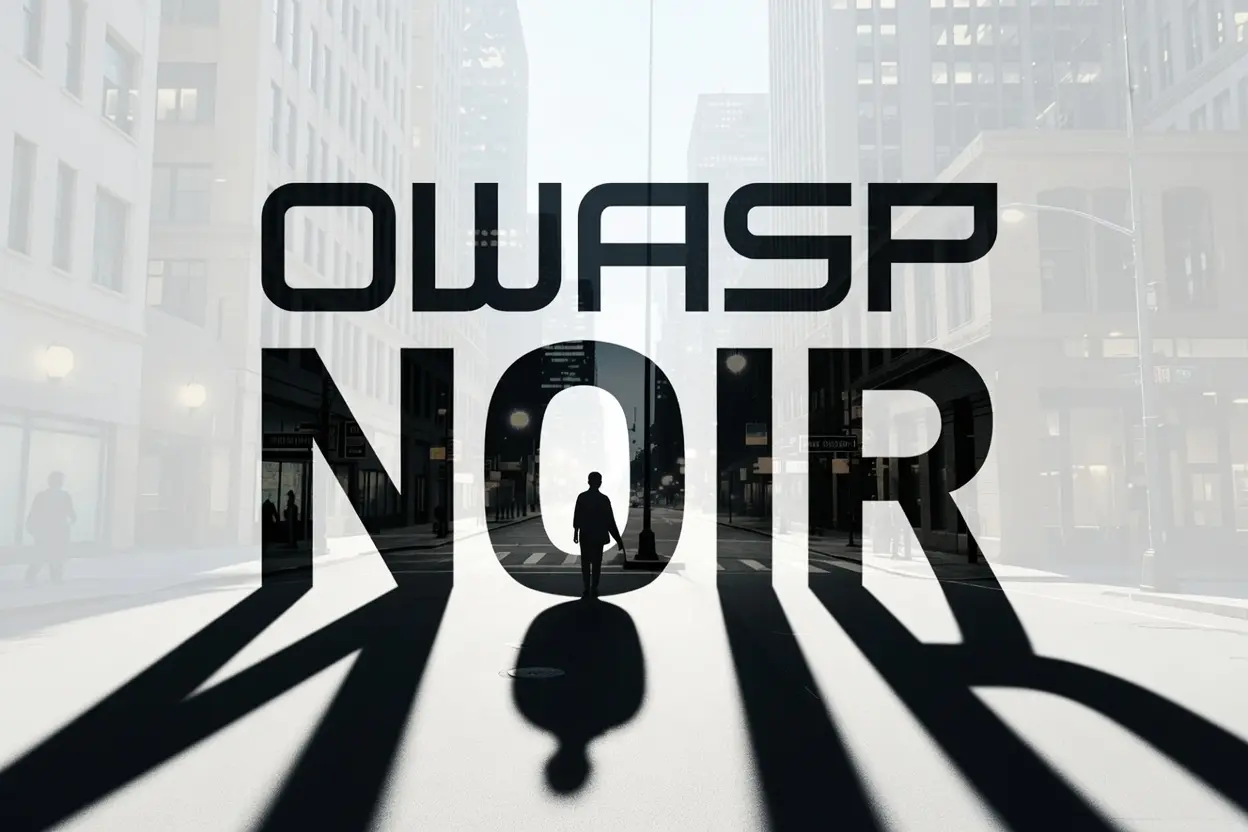
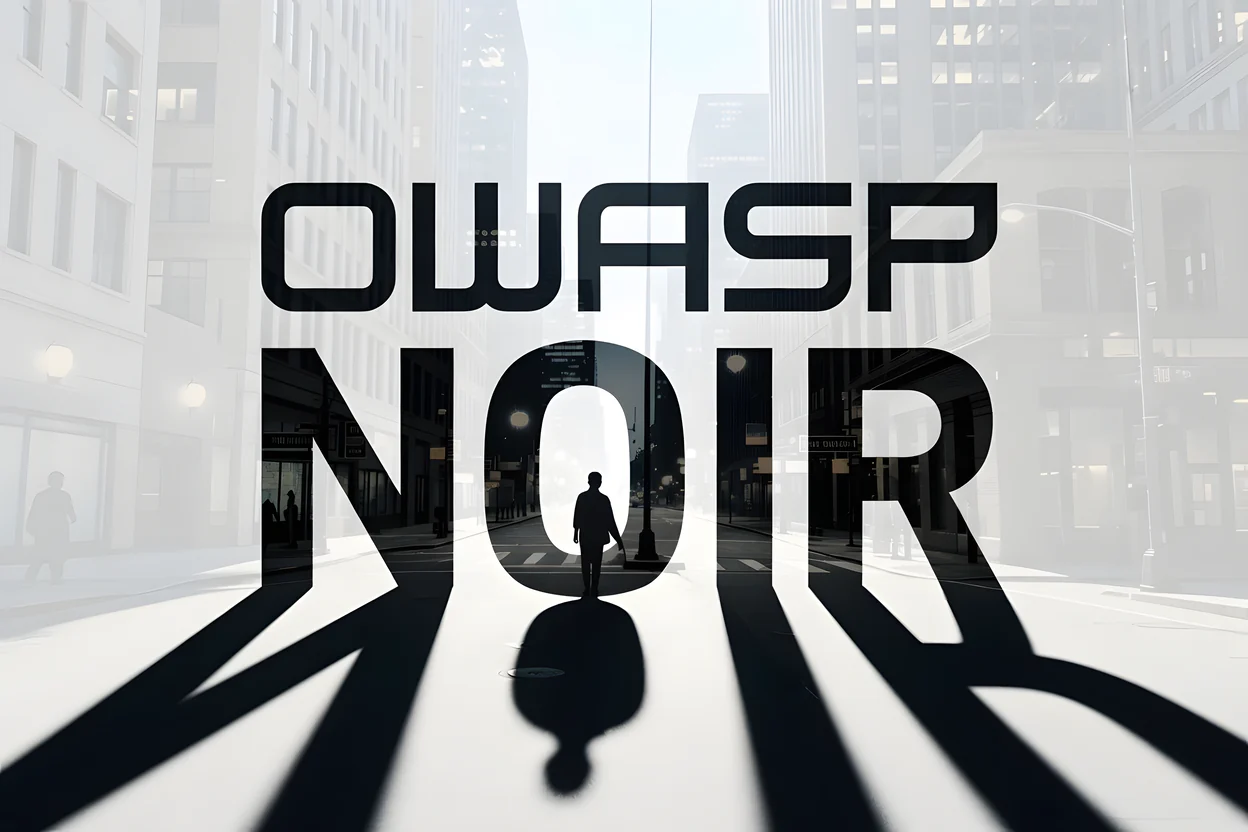
docs: serve high-resolution landing hero plates (#2781)
The hero plates were 1168x784 (night) and 1248x832 (fog) but cover the
full viewport, so a 1440px retina screen stretched them ~2.5x and 4K
more than 3x. No larger original of this artwork exists in history, so
both plates were upscaled 4x with Real-ESRGAN (realesrgan-x4plus) from
the q95 JPEG sources and re-encoded at 1x/2x/3x of their native size,
keeping the aspect ratio the mobile band relies on.

The <source> elements now carry a width-descriptor srcset with
sizes=100vw, and the JPEG fallback (also the OG default_image) moves to
the 2x size.

Changed region(s): [[0.7188, 0.75, 0.7812, 0.7812]]

diff --git a/docs/content/_index.ko.md b/docs/content/_index.ko.md
@@ -15,13 +15,15 @@ template = "landing"
   <div class="hero-sentinel" aria-hidden="true"></div>
   <div class="hero-media">
     <picture class="hero-plate hero-plate-dark">
-      <source srcset="../images/noir-wallpaper.webp" type="image/webp">
+      <source type="image/webp" sizes="100vw"
+              srcset="../images/noir-wallpaper.webp 1168w, ../images/noir-wallpaper-2x.webp 2336w, ../images/noir-wallpaper-3x.webp 3504w">
       <img class="hero-art" src="../images/noir-wallpaper.jpg"
            alt="흑백으로 촬영한 인적 없는 밤거리 위에 OWASP Noir 워드마크가 빛으로 새겨져 있다."
            width="1168" height="784" fetchpriority="high" decoding="async">
     </picture>
     <picture class="hero-plate hero-plate-light">
-      <source srcset="../images/noir-wallpaper-white.webp" type="image/webp">
+      <source type="image/webp" sizes="100vw"
+              srcset="../images/noir-wallpaper-white.webp 1248w, ../images/noir-wallpaper-white-2x.webp 2496w, ../images/noir-wallpaper-white-3x.webp 3744w">
       <img class="hero-art" src="../images/noir-wallpaper-white.jpg"
            alt="안개 낀 대낮의 인적 없는 거리 위로 OWASP Noir 워드마크가 그림자로 드리워져 있다."
            width="1248" height="832" fetchpriority="high" decoding="async">

diff --git a/docs/content/_index.md b/docs/content/_index.md
@@ -13,13 +13,15 @@ template = "landing"
   <div class="hero-sentinel" aria-hidden="true"></div>
   <div class="hero-media">
     <picture class="hero-plate hero-plate-dark">
-      <source srcset="./images/noir-wallpaper.webp" type="image/webp">
+      <source type="image/webp" sizes="100vw"
+              srcset="./images/noir-wallpaper.webp 1168w, ./images/noir-wallpaper-2x.webp 2336w, ./images/noir-wallpaper-3x.webp 3504w">
       <img class="hero-art" src="./images/noir-wallpaper.jpg"
            alt="A deserted city street at night, shot in monochrome, with the OWASP Noir wordmark lit across it."
            width="1168" height="784" fetchpriority="high" decoding="async">
     </picture>
     <picture class="hero-plate hero-plate-light">
-      <source srcset="./images/noir-wallpaper-white.webp" type="image/webp">
+      <source type="image/webp" sizes="100vw"
+              srcset="./images/noir-wallpaper-white.webp 1248w, ./images/noir-wallpaper-white-2x.webp 2496w, ./images/noir-wallpaper-white-3x.webp 3744w">
       <img class="hero-art" src="./images/noir-wallpaper-white.jpg"
            alt="The same deserted city street in daylight fog, with the OWASP Noir wordmark cast across it in shadow."
            width="1248" height="832" fetchpriority="high" decoding="async">
